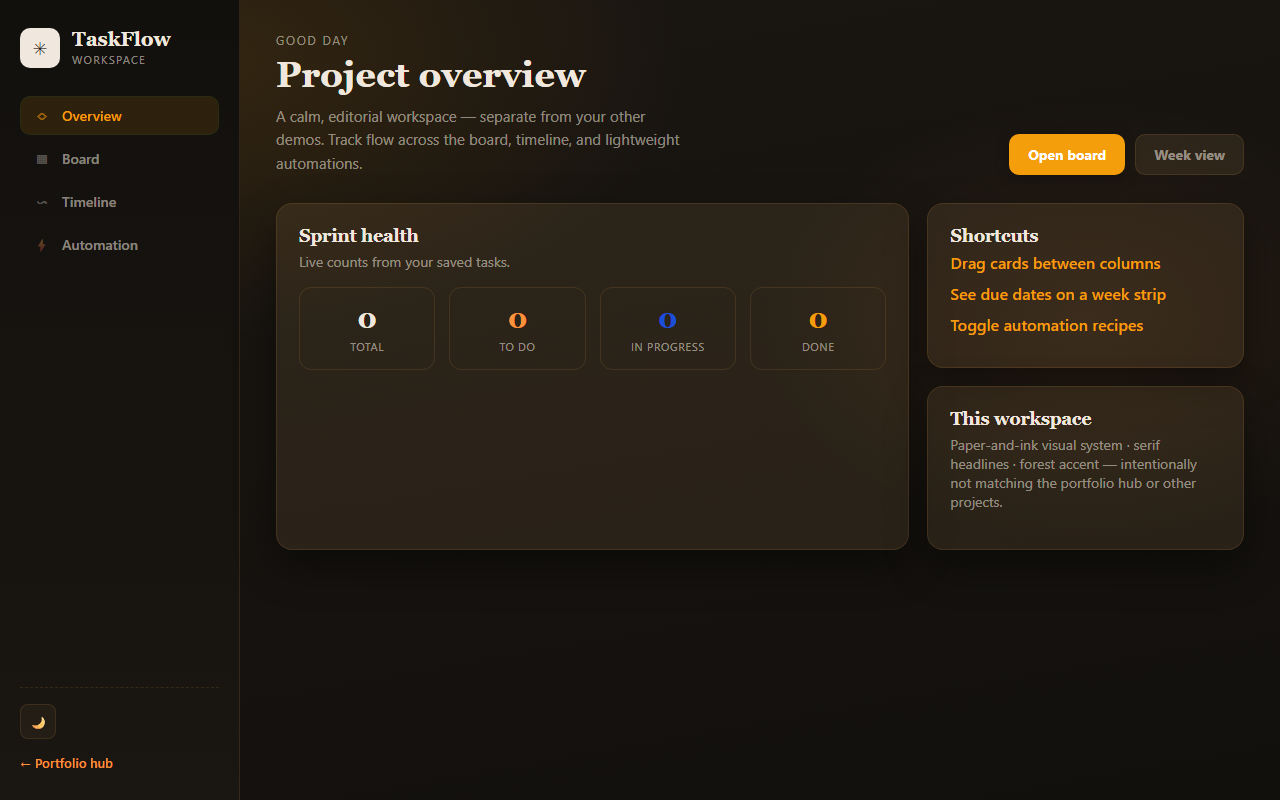
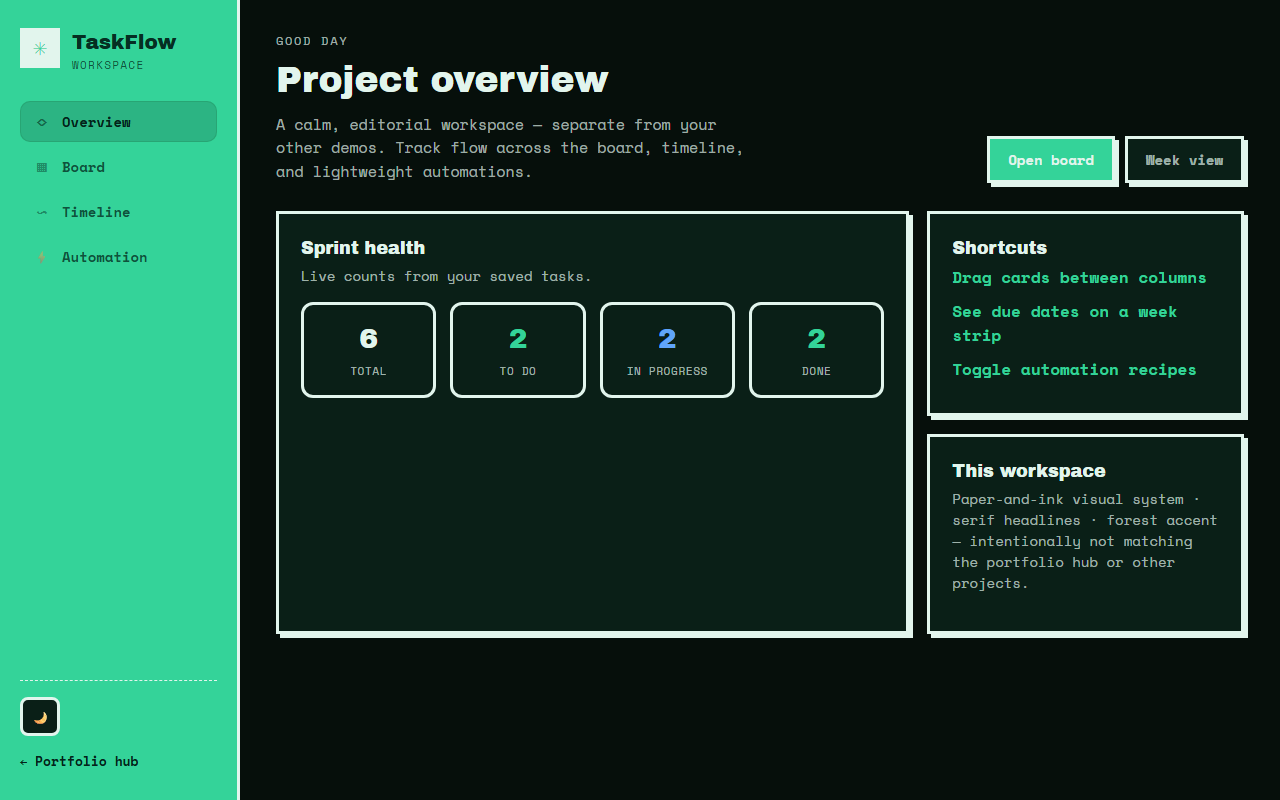
feat: update Kanban styles and images for improved visual consistency

diff --git a/static/css/kanban.css b/static/css/kanban.css
@@ -16,6 +16,12 @@
   --kb-accent: #ff90e8;
   --kb-accent-soft: rgba(255, 144, 232, 0.2);
   --kb-accent-text: #a1127d;
+  /* Text sitting on the vivid --kb-bg sidebar (not on cards/surfaces). */
+  --kb-on-bg: #0a0a0a;
+  --kb-on-bg-muted: rgba(10, 10, 10, 0.72);
+  --kb-on-bg-accent: #a1127d;
+  --kb-info: #1d4ed8;
+  --kb-danger: #b91c1c;
   --kb-rust: #ff90e8;
   --kb-ink: #0a0a0a;
   --kb-paper: #faf8f3;
@@ -39,6 +45,12 @@
   --kb-accent: #0f3d2e;
   --kb-accent-soft: rgba(15, 61, 46, 0.2);
   --kb-accent-text: #34d399;
+  --kb-on-bg: #052e22;
+  --kb-on-bg-muted: rgba(5, 46, 34, 0.78);
+  --kb-on-bg-accent: #03231a;
+  /* Lightened so status text clears 4.5:1 on the near-black cards. */
+  --kb-info: #60a5fa;
+  --kb-danger: #f87171;
   --kb-rust: #0f3d2e;
   --kb-ink: #e2f5ed;
   --kb-paper: #0a1f17;
@@ -76,6 +88,7 @@
   padding: 28px 20px;
   border-right: 3px solid var(--kb-border);
   background: var(--kb-bg2);
+  color: var(--kb-on-bg);
   display: flex;
   flex-direction: column;
   position: sticky;
@@ -112,7 +125,7 @@
   font-size: 11px;
   text-transform: uppercase;
   letter-spacing: 0.12em;
-  color: var(--kb-muted);
+  color: var(--kb-on-bg-muted);
   margin-top: 2px;
 }
 
@@ -130,20 +143,21 @@
   padding: 10px 12px;
   border-radius: 10px;
   text-decoration: none;
-  color: var(--kb-muted);
+  color: var(--kb-on-bg-muted);
   font-weight: 600;
   font-size: 14px;
   transition: background 0.15s, color 0.15s;
 }
 
 .kb-shell-link:hover {
-  background: var(--kb-surface-2);
-  color: var(--kb-ink);
+  /* Translucent darkening reads correctly on both brand backgrounds. */
+  background: rgba(0, 0, 0, 0.10);
+  color: var(--kb-on-bg);
 }
 
 .kb-shell-link.is-active {
   background: var(--kb-accent-soft);
-  color: var(--kb-accent-text);
+  color: var(--kb-on-bg-accent);
   box-shadow: inset 0 0 0 1px rgba(22, 101, 52, 0.18);
 }
 
@@ -161,7 +175,7 @@
 
 .kb-shell-hub {
   font-size: 13px;
-  color: var(--kb-accent-text);
+  color: var(--kb-on-bg-accent);
   font-weight: 600;
   text-decoration: none;
 }
@@ -312,7 +326,7 @@
 }
 
 .kb-dash-metric-val.kb-accent-progress {
-  color: #1d4ed8;
+  color: var(--kb-info);
 }
 
 .kb-dash-metric-val.kb-accent-done {
@@ -721,7 +735,7 @@
 }
 
 .kb-stat-progress {
-  color: #1d4ed8;
+  color: var(--kb-info);
 }
 
 .kb-stat-done {
@@ -729,7 +743,7 @@
 }
 
 .kb-stat-overdue {
-  color: #b91c1c;
+  color: var(--kb-danger);
 }
 
 .kb-stat-wide {
@@ -794,7 +808,7 @@
 
 .kb-btn-danger {
   background: rgba(185, 28, 28, 0.08);
-  color: #b91c1c;
+  color: var(--kb-danger);
   border-color: rgba(185, 28, 28, 0.2);
 }
 
@@ -856,7 +870,7 @@
 }
 
 .kb-dot-progress {
-  background: #1d4ed8;
+  background: var(--kb-info);
 }
 
 .kb-dot-done {
@@ -998,7 +1012,7 @@
 }
 
 .kb-card-due.kb-overdue {
-  color: #b91c1c;
+  color: var(--kb-danger);
   font-weight: 700;
 }
 
@@ -1172,7 +1186,7 @@
 }
 
 .kb-sub-remove:hover {
-  color: #b91c1c;
+  color: var(--kb-danger);
 }
 
 .kb-add-subtask {
